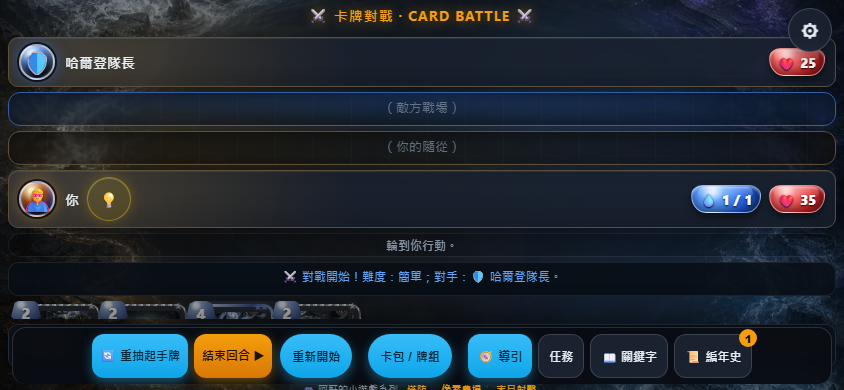
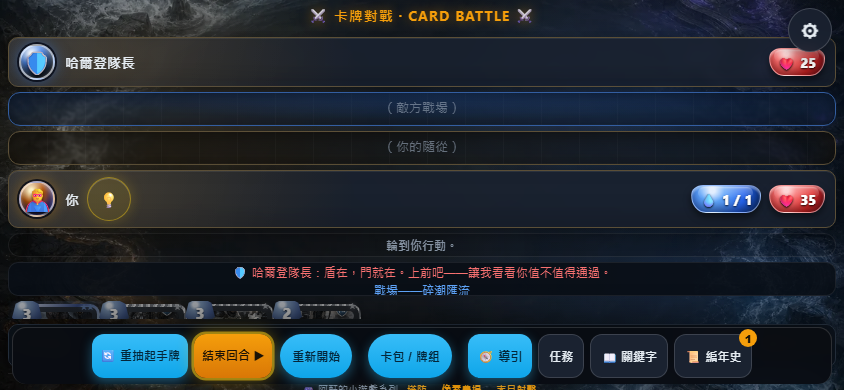
R68 辯論裁決速贏批：修英文硬編碼 Victory!/Defeat→繁中＋對手化結語（三對手 win/lose 句）；三具名對手台詞包（intro/heroPlay/lethal 起步各一句、走既有 log 管線）；開包 best-for-last 壓軸排序修 finale 錯綁＋撕包稀有度光暈粗粒度預示（保底/資料層不動）；五戰場中文名開場播報；中立陣營 legend 補齊段落；結束回合無行動發光引導；npm test 131/0＋e2e＋rwd 全綠

diff --git a/templates/card-battle/battle.js b/templates/card-battle/battle.js
@@ -37,6 +37,12 @@
   };
   const OPPONENT_KEY = "cardgame_opponent";
   const DEFAULT_OPPONENT_ID = "op_ser_halden";
+  // R68（辯論裁決 B-01/B-02）：三位具名對手台詞包（每類 1 句起步）與勝敗結語
+  const OPPONENT_LINES = Object.freeze({
+    op_ser_halden: { intro: "盾在，門就在。上前吧——讓我看看你值不值得通過。", win: "城門緩緩敞開。哈爾登收盾致意：「今日的白潮，屬於你。」", lose: "哈爾登舉盾遮面：「回去練十年，門還會在這裡。」", heroPlay: "「白潮聽令——列陣！」", lethal: "「守住！最後一道浪頭！」" },
+    op_magister_vey: { intro: "殘響未落，下一句咒語已經寫好了。", win: "維伊闔上法典：「你的名字，值得寫進殘響。」", lose: "維伊輕笑：「你翻頁的速度，追不上我的詠唱。」", heroPlay: "「見證吧——這一頁由我執筆。」", lethal: "「墨已研好，就差你的句點。」" },
+    op_scarra: { intro: "狼群早到了。你，才是遲來的獵物。", win: "斯卡拉吹了聲口哨：「今晚放你走。下次沒這種運氣。」", lose: "狼嚎掠過戰場。斯卡拉丟下一句：「下次，跑快一點。」", heroPlay: "「撕開他們的前排！」", lethal: "「你的血線在發抖。狼群，收尾！」" },
+  });
   const OPPONENTS = Object.freeze({
     op_ser_halden: Object.freeze({
       id: "op_ser_halden",
@@ -152,6 +158,11 @@
     Object.freeze({ id: "longnight-necropolis", faction: "wintershadow", urls: Object.freeze({ high: "../../assets/battlefields/longnight-necropolis-high.webp?v=4b7300c8", med: "../../assets/battlefields/longnight-necropolis-med.webp?v=9a48f27c", low: "../../assets/battlefields/longnight-necropolis-low.webp?v=927f8f26" }) }),
     Object.freeze({ id: "tidebreak-confluence", faction: "neutral", urls: Object.freeze({ high: "../../assets/battlefields/tidebreak-confluence-high.webp?v=ae55f8e7", med: "../../assets/battlefields/tidebreak-confluence-med.webp?v=35c28764", low: "../../assets/battlefields/tidebreak-confluence-low.webp?v=bcaabe4e" }) }),
   ]);
+  // R68（辯論裁決 B-03 縮幅）：五戰場中文名——R67 美術投資自此有名可稱
+  const BATTLEFIELD_NAMES = Object.freeze({
+    "white-tide-citadel": "白潮堡壘", "astral-conclave": "星輟議庭", "thunderwild-pass": "雷莽隘口",
+    "longnight-necropolis": "長夜陵城", "tidebreak-confluence": "碎潮匯流",
+  });
   let battlefieldCursor = -1;
   let battlefieldLoadToken = 0;
   const SW_BOOT = window.__CARD_SW_BOOT || {};
@@ -669,6 +680,8 @@
     document.getElementById("overlay").classList.remove("show", "win", "lose");
     document.getElementById("log").innerHTML = "";
     log(`⚔ 對戰開始！難度：${D.label}；對手：${opponent.emoji} ${opponent.name}。`, "me");
+    { const op = OPPONENT_LINES[opponent.id]; if (op && op.intro) log(`${op.intro}`, "ai"); }
+    { const scene = R67_BATTLEFIELDS[battlefieldCursor]; const bn = scene && BATTLEFIELD_NAMES[scene.id]; if (bn) log(`戰場——${bn}`, "me"); }
     if (opponent.heroCardId && playerDeckIds.includes(opponent.heroCardId)) {
       log(`「${opponent.name}對上了……另一個${opponent.name}。」`, "me");
     }
@@ -2063,7 +2076,7 @@
     game.pendingSpell = null;
     const win = game.enemy.hp <= 0;
     triggerFinishEffect(win);
-    showOverlay(win ? "Victory!" : "Defeat", win);
+    showOverlay(win ? "勝利！" : "敗北", win);
     return true;
   }
 
@@ -2120,6 +2133,16 @@
     updateTargetStatus();
 
     document.getElementById("endTurnBtn").disabled = game.turn !== "player" || game.over;
+    // R68（C-02 精簡版）：無可行動時結束回合鈕發光引導（純資訊，零摩擦）
+    {
+      const btn = document.getElementById("endTurnBtn");
+      let hasActions = false;
+      if (game.turn === "player" && !game.over) {
+        hasActions = game.player.hand.some((c) => c.cost <= game.player.mana) ||
+          game.player.field.some((m) => m.canAttack && !m._cantAttackThisTurn);
+      }
+      btn.classList.toggle("glow", !btn.disabled && !hasActions);
+    }
     updateHintButton();
     renderQuests();
     focusGuideTarget();
@@ -3354,6 +3377,13 @@
   function showOverlay(title, win) {
     const ov = document.getElementById("overlay");
     document.getElementById("overlayTitle").textContent = title;
+    // R68：對手化結語（勝=玩家贏→對手 win 句）
+    const epi = document.getElementById("overlayEpilogue");
+    if (epi) {
+      const op = OPPONENT_LINES[game && game.opponentId] || null;
+      epi.textContent = op ? (win ? op.win : op.lose) : "";
+      epi.hidden = !op;
+    }
     ov.classList.toggle("win", win); ov.classList.toggle("lose", !win);
 
     // 更新戰績與金幣

diff --git a/templates/card-battle/index.html b/templates/card-battle/index.html
@@ -459,6 +459,8 @@
     cursor: pointer; box-shadow: 0 2px 8px rgba(0,0,0,.3); }
   .audio-toggle-btn.is-muted { color: var(--muted); filter: grayscale(1) brightness(.82); }
   .settings-panel input[type="range"] { min-width: 94px; min-height: 32px; }
+  button.end-turn.glow { box-shadow: 0 0 0 2px rgba(250,204,21,.55), 0 0 18px rgba(250,204,21,.5); animation: endTurnGlow 1.6s ease-in-out infinite; }
+  @keyframes endTurnGlow { 0%,100% { box-shadow: 0 0 0 2px rgba(250,204,21,.35), 0 0 10px rgba(250,204,21,.3);} 50% { box-shadow: 0 0 0 3px rgba(250,204,21,.65), 0 0 22px rgba(250,204,21,.6);} }
   button.end-turn {
     background: linear-gradient(180deg, var(--accent), #d97706); color: #1a1206; font-weight: 800; font-size: 15px;
     min-height:44px; border: none; padding: 11px 26px; border-radius: 24px; cursor: pointer;
@@ -584,6 +586,7 @@
   .overlay button.quest-cta { background: #2a3645; color: var(--muted); }
   .overlay button.quest-cta.ready { background: linear-gradient(180deg,#facc15,#eab308); color: #271a02; box-shadow: 0 0 18px rgba(250,204,21,.35); }
   .overlay button:disabled { filter: grayscale(1) brightness(.7); cursor: not-allowed; }
+  .overlay-epilogue { margin: 2px 0 8px; font-size: 14px; color: #cfe3f5; opacity: .92; font-style: italic; }
   .result-stats { display: flex; flex-direction: column; gap: 8px; align-items: center; font-size: 15px; color: var(--ink); }
   .result-stats .streak { font-size: 22px; font-weight: 900; color: #fb923c; text-shadow: 0 0 16px #f97316; }
   .result-stats .coin { color: #facc15; font-weight: 800; font-size: 17px; }
@@ -1078,6 +1081,7 @@
 
   <div class="overlay" id="overlay">
     <h1 id="overlayTitle">勝利！</h1>
+    <p id="overlayEpilogue" class="overlay-epilogue" hidden></p>
     <div class="result-stats" id="resultStats"></div>
     <div class="overlay-actions">
       <button id="restartBtn">再戰一場</button>

diff --git a/templates/card-pack/pack.js b/templates/card-pack/pack.js
@@ -639,6 +639,14 @@
     for (let i = 0; i < PACK_SIZE; i++) cards.push(rollCardByRarity());
     applyPityToCards(cards);
 
+    // R68（辯論裁決 A-03）：展示順序 best-for-last——保底/資料層不動，僅排序展示陣列；
+    // finale 因綁「最後一張」自動改綁最稀有。撕包瞬間依本包最佳稀有度給粗粒度光暈預示（不劇透卡名）。
+    const rarityRank = { common: 0, rare: 1, epic: 2, legendary: 3 };
+    cards.sort((a, b) => (rarityRank[a.rarity] || 0) - (rarityRank[b.rarity] || 0) ||
+      ((a.foil || a.tide) ? 1 : 0) - ((b.foil || b.tide) ? 1 : 0));
+    const best = cards[cards.length - 1];
+    if (best && (rarityRank[best.rarity] || 0) >= 2) pack.classList.add(best.rarity === "legendary" ? "opening-legendary" : "opening-epic");
+
     setTimeout(() => revealCards(cards), prefersReducedMotion() ? 0 : (isLowPerf() ? 180 : 600));
   }
 
@@ -1627,7 +1635,7 @@
     const stage = document.getElementById("packStage");
     stage.style.display = "flex";
     const pack = document.getElementById("pack");
-    pack.classList.remove("opening");
+    pack.classList.remove("opening", "opening-legendary", "opening-epic");
     pack.style.pointerEvents = "auto";
   }
 

diff --git a/templates/card-pack/index.html b/templates/card-pack/index.html
@@ -127,6 +127,8 @@
   .pack::after { content:""; position:absolute; inset:7%; opacity:0; pointer-events:none;
     background:linear-gradient(118deg,transparent 47%,rgba(255,255,255,.95) 48% 50%,transparent 51%),linear-gradient(66deg,transparent 49%,rgba(253,224,71,.88) 50% 52%,transparent 53%); filter:drop-shadow(0 0 8px #fde047); }
   .pack:hover { transform: scale(1.06) rotate(-2deg); }
+  .pack.opening-legendary { filter: drop-shadow(0 0 26px rgba(250,204,21,.85)); }
+  .pack.opening-epic { filter: drop-shadow(0 0 22px rgba(168,85,247,.8)); }
   .pack.opening { animation: packBurst .6s ease forwards; }
   .pack.opening::after { animation:packCrack .48s ease-out; }
   .pack .pack-icon { font-size: 64px; filter: drop-shadow(0 0 12px gold); z-index:1; }

diff --git a/templates/card-battle/cards.js b/templates/card-battle/cards.js
@@ -76,7 +76,7 @@ const FACTIONS = Object.freeze({
     emoji: "⚖",
     color: "#94a3b8",
     emblem: "../../assets/factions/neutral.png?v=4cf2322a",
-    legend: "不屬四旗，只屬下一次談判的桌面。",
+    legend: "不屬四旗，只屬下一次談判的桌面。潮間人往來於堡壘與陵城之間，替白潮送鹽、替結社抄錄殘響、替荒野捎信、也替凜冬點燈——四旗都罵他們牆頭草，開戰前夜卻都排隊敲他們的門。碎潮匯流的每一張契約，末尾都印著同一句話：潮水不選邊，只選還站著的人。",
   }),
 });
 
